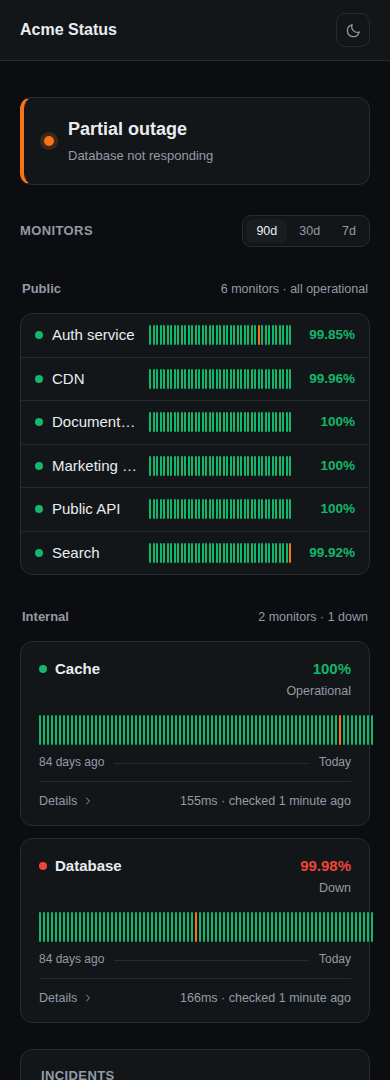
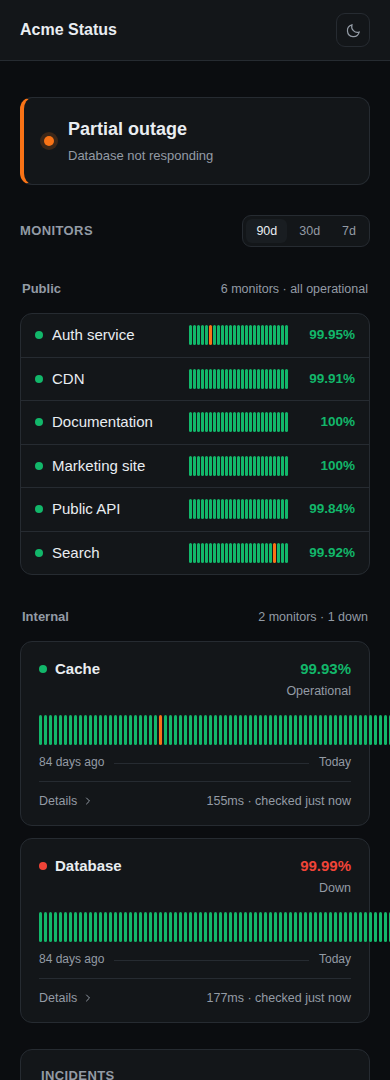
fix: even bar spacing, shorter compact strip
Bars shared the strip with flex, which gave them fractional widths: 3.063px
next to 3.078px in a card, 2.672 next to 2.688 in a compact row. Rounding
those to device pixels is what looked like a wider gap every few days. Bar
width and gap are now whole pixels and the day count follows from them, so
every bar and every gap measures the same.

The compact strip also drops to half its width, with a tighter cell, and the
name column takes the slack instead.

diff --git a/site/app.js b/site/app.js
@@ -92,13 +92,18 @@ const hideTooltip = () => {
 const rangeKey = () => (range === 7 ? 'week' : range === 30 ? 'month' : 'quarter');
 
 // Bars stay readable by dropping the oldest days when the viewport is narrow.
-function visibleDays(width = monitorsEl.clientWidth - 40) {
-  return Math.max(7, Math.min(range, Math.floor(width / 5)));
+function visibleDays(width, cell) {
+  return Math.max(7, Math.min(range, Math.floor(width / cell)));
 }
 
-function renderBars(monitor, width) {
+// Bars are laid out on whole pixels. Letting flex share the space instead gives
+// them fractional widths, and rounding those to device pixels is what made the
+// spacing look uneven every few days.
+function renderBars(monitor, width = monitorsEl.clientWidth - 40, bar = 3, gap = 2) {
   const bars = el('div', 'bars');
-  const days = monitor.days.slice(-visibleDays(width));
+  bars.style.setProperty('--bar', `${bar}px`);
+  bars.style.setProperty('--gap', `${gap}px`);
+  const days = monitor.days.slice(-visibleDays(width, bar + gap));
   for (const day of days) {
     const bar = el('div', `bar bar-${day.state}`);
     bar.addEventListener('mouseenter', (event) => {
@@ -511,9 +516,8 @@ function renderCompactRow(monitor) {
   row.style.setProperty('--status', `var(--${monitor.status === 'none' ? 'none' : monitor.status})`);
   row.append(el('span', 'dot'), el('span', 'compact-name', monitor.name));
 
-  // The row is narrower than a card, so the strip is sized for what is left
-  // once the name, status and figure have taken their share.
-  const [bars] = renderBars(monitor, Math.max(120, monitorsEl.clientWidth * 0.45));
+  // Half the width a card gives its strip, with a tighter cell to match.
+  const [bars] = renderBars(monitor, Math.max(80, monitorsEl.clientWidth * 0.22), 3, 1);
   bars.classList.add('bars-compact');
   row.append(bars);
 

diff --git a/site/style.css b/site/style.css
@@ -348,7 +348,7 @@ main.shell {
 }
 
 .compact-name {
-  flex: 0 1 26%;
+  flex: 1 1 auto;
   min-width: 88px;
   font-weight: 500;
   overflow: hidden;
@@ -358,11 +358,9 @@ main.shell {
 
 /* Specificity has to beat the plain .bars rule further down. */
 .bars.bars-compact {
-  flex: 1 1 auto;
+  flex: 0 0 auto;
   height: 20px;
   margin: 0;
-  min-width: 100px;
-  gap: 1.5px;
 }
 
 .compact-name a {
@@ -455,14 +453,14 @@ main.shell {
 .bars {
   display: flex;
   align-items: stretch;
-  gap: 2px;
+  gap: var(--gap, 2px);
   height: 34px;
   margin: 14px 0 8px;
 }
 
+/* Whole pixel bars: fractional widths paint unevenly. */
 .bar {
-  flex: 1 1 0;
-  min-width: 2px;
+  flex: 0 0 var(--bar, 3px);
   border-radius: 2px;
   background: var(--none);
   transition: opacity 0.1s;
